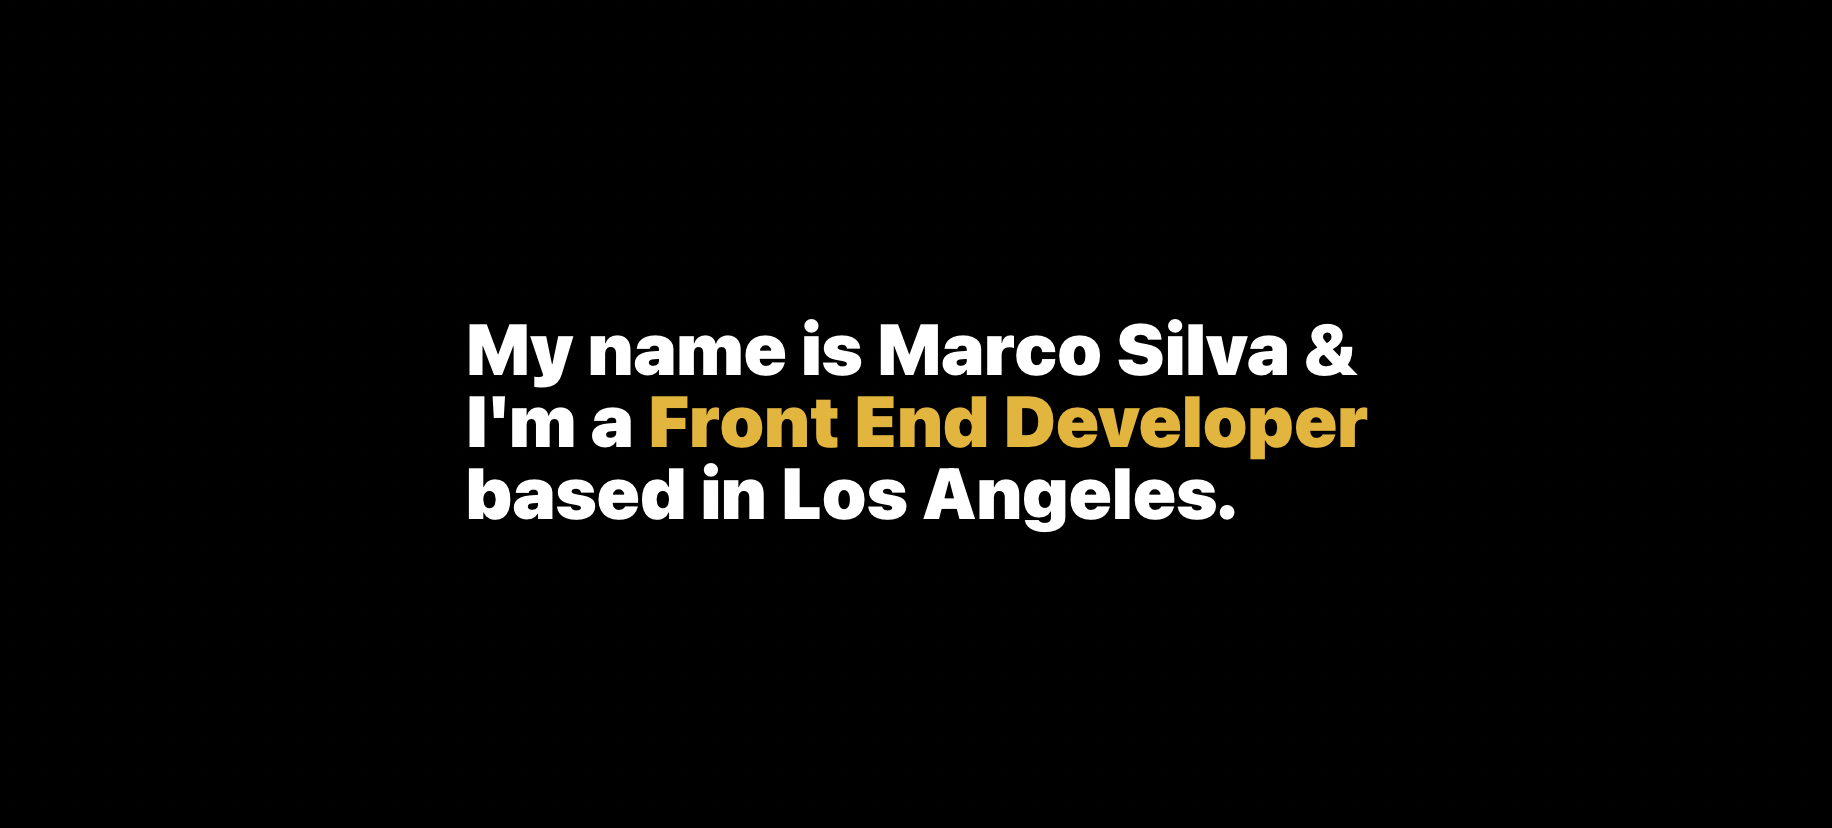
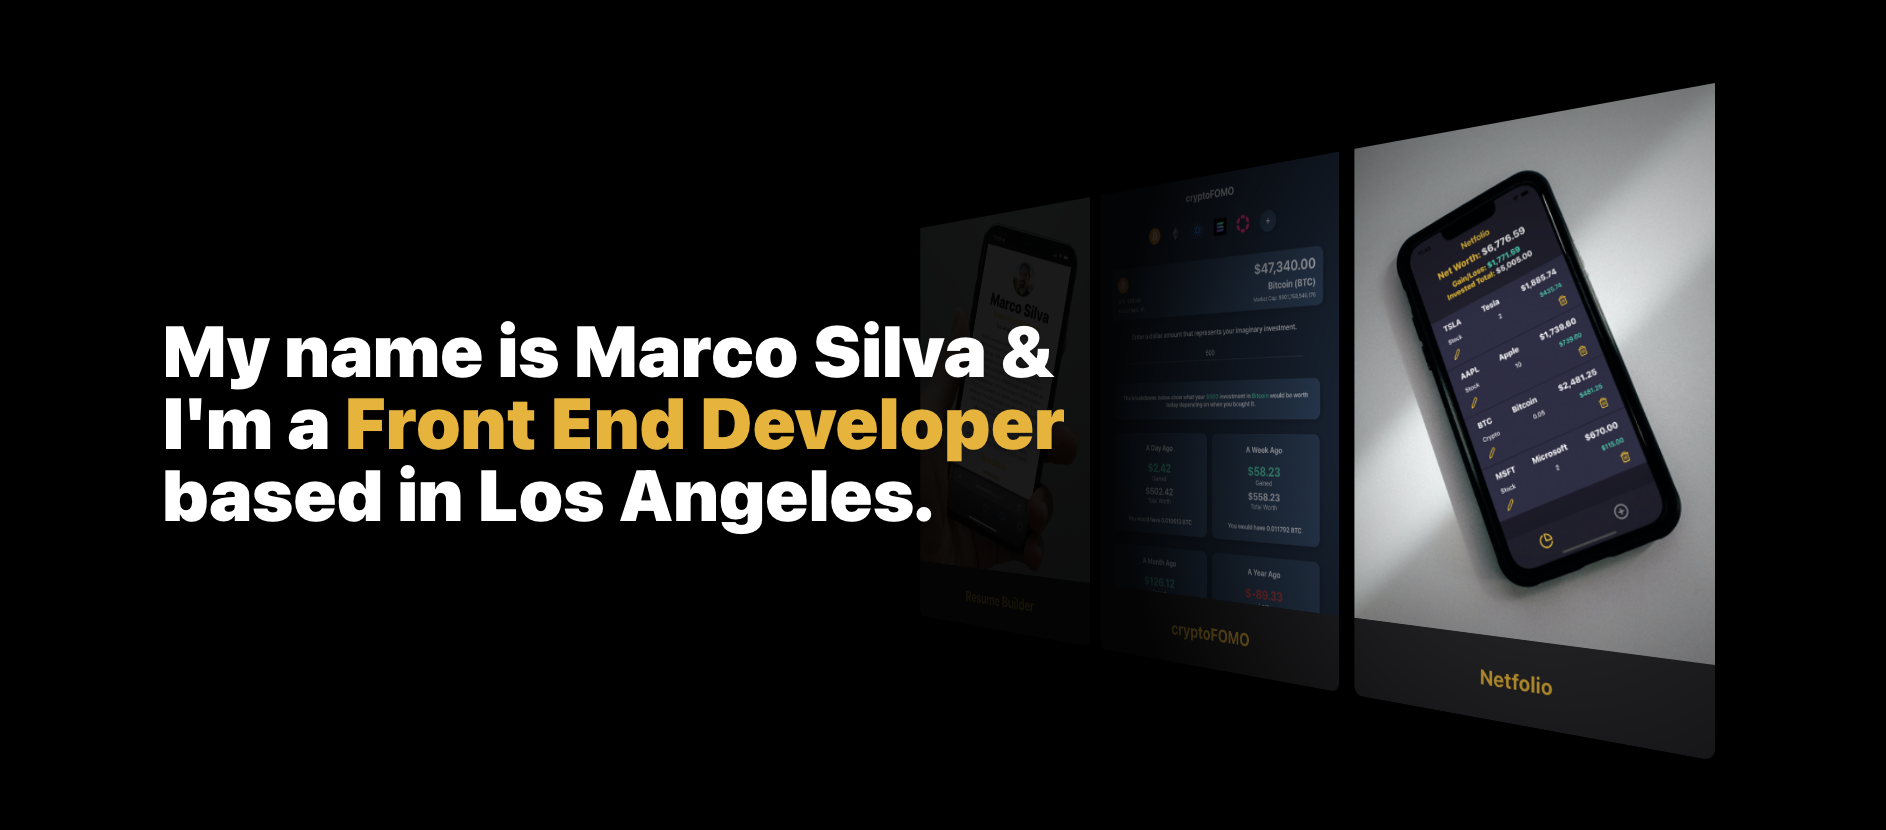
played with skewing H1

Changed region(s): [[0.0622, 0.0906, 0.9334, 0.9058]]

diff --git a/src/index.css b/src/index.css
@@ -36,6 +36,12 @@ body {
   z-index: 0;
 }
 
+.h1-skew {
+  transform-origin: right center;
+  transform: perspective(130px) rotateY(-6deg) translateZ(0);
+  transform: perspective(130px) rotateY(-6deg) translateZ(0) translateX(-100px); 
+}
+
 /* .text-glow {
   text-shadow: 0 0 80px rgb(192 219 255 / 48%), 0 0 32px rgb(65 120 255 / 24%);
 } */

diff --git a/src/App.jsx b/src/App.jsx
@@ -9,7 +9,7 @@ function App() {
   return (
     <ObjectContext.Provider value={{ info }}>
       <Router>
-        <div className="flex w-full justify-center flex-col">
+        <div className="flex w-full justify-center flex-col no-scrollbar">
             <Home/>      
         </div>
       </Router>
